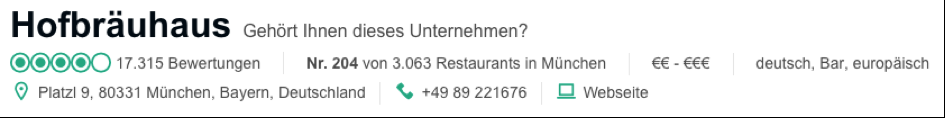
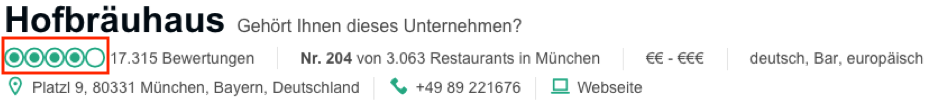
Hinzufügen Teil Extraktion Bewertungsdaten und allgemeine Anpassungen

diff --git a/Studienarbeit/Webscraper_TripAdvisor_Studienarbeit.tex b/Studienarbeit/Webscraper_TripAdvisor_Studienarbeit.tex
@@ -181,34 +181,21 @@
 			\\
 			Bei unstrukturierten Daten wird keinem eindeutigen Schema gefolgt, nur einer reinen Bitfolge. Das bedeutet jedoch nicht, dass die Daten gar keine Struktur aufweisen. Diese ist jedoch nicht direkt bzw. eindeutig für den Nutzer erkennbar. Neben Multimedia Daten (Bilder, Musik) finden sich unstrukturierten Daten auch meist in Emails, auf Internetseiten oder in Text-Dokumenten \cite{bib-daten}.
 			\\
-			\\
-			Web Crawling bzw. Web Scraping fokussiert sich daher auf die Transformation von unstrukturierten Daten im Web zu Daten mit strukturgebenden Metadaten. Die gewünschten Informationen werden dabei als unstrukturierte Rohdaten extrahiert und in einer leicht lesbaren und skalierbaren, d.h. strukturierten Form in Listen, Tabellen oder Datenbanken gespeichert (vgl. Abbildung \ref{pic-webcrawler}). Vorteilhaft ist, dass Web Scraping selektiv arbeitet, d.h. lediglich die Daten transformiert für die man sich im Vorfeld entschieden hat. Dies erleichtert eine Analyse der Daten erheblich. Aktuelle Softwares und Tools sind in der Lage, komplette Websites in strukturierte Daten umzuwandeln um diese weiter zu verarbeiten.
-				
-			\begin{figure}[H]
-				\centering
-				\begin{minipage}[b]{0.9\textwidth}
-					\includegraphics[width=\textwidth]{Bilder/Webcrawler.png}
-				\end{minipage}
-				\centering
-				\caption[Funktionsweise eines Webcrawlers]{Funktionsweise eines Webcrawlers}
-				\label{pic-webcrawler}
-			\end{figure}
-			
-			bzw: Mithilfe von Web Scraping werden unstrukturierte Daten im Web zu Daten mit strukturgebenden Metadaten transformiert. Was genau Web Scraping bedeutet und wie es funktioniert, wird im nächsten Abschnitt näher erläutert.
+			Mithilfe von Web Scraping werden unstrukturierte Daten im Web zu Daten mit strukturgebenden Metadaten transformiert. Was genau Web Scraping bedeutet und wie es funktioniert, wird im nächsten Abschnitt näher erläutert.
 			
 			
 		\section{Web Scraping}
 		
-			Mit Web Scraping – auch “Web Harvesting”, “Web data mining” oder “Web data extraction“ genannt – wird das automatisierte herunterladen, analysieren und organisieren von Daten mehrerer Webseiten bezeichnet. Der Vorteil ist, dass aus einer Menge von unstrukturierten Informationen nur die benötigten Daten einer Webseite gezielt extrahiert und strukturiert abgespeichert werden. 
+			Mit Web Scraping – auch “Web Harvesting”, “Web data mining” oder “Web data extraction“ genannt – wird das automatisierte herunterladen, analysieren und organisieren von Daten mehrerer Webseiten bezeichnet. Der Vorteil ist, dass aus einer Menge von unstrukturierten Informationen nur die benötigten Daten einer Webseite gezielt extrahiert und strukturiert abgespeichert werden. \cite{bib-webscraping}
 			\\			
-			Der Begriff „Scraping“ (engl.: „abkratzen, schaben“) gibt es circa so lange wie das Internet selbst. Bevor Web Scraping populär wurde war das Verfahren "Screen Scraping" bereits allgemein bekannt. Damit wird das Auslesen von Daten aus Darstellungen am Computer bezeichnet. Genau wie heute war man damals schon daran interessiert, große Textmengen zu extrahieren, um daraus nur die benötigten Daten für den späteren Gebrauch zu speichern. Da dieses Verfahren heutzutage meist nur noch für Webseiten benötigt wird, wurde der Begriff „Web Scraping“ etabliert. 
-			%TODO Was ist das für eine Quellenangabe?
-			(vgl.: Practical Web Scraping, Seite 3)
+			Der Begriff „Scraping“ (engl.: „abkratzen, schaben“) gibt es circa so lange wie das Internet selbst. Bevor Web Scraping populär wurde war das Verfahren Screen Scraping bereits allgemein bekannt. Damit wird das Auslesen von Daten aus Darstellungen am Computer bezeichnet. Genau wie heute war man damals schon daran interessiert, große Textmengen zu extrahieren, um daraus nur die benötigten Daten für den späteren Gebrauch zu speichern. Da dieses Verfahren heutzutage meist nur noch für Webseiten benötigt wird, wurde der Begriff „Web Scraping“ etabliert. \cite{bib-webscraping}
+			\\
+			Oft wird auch als Synonym der Begriff „Web Crawling“ verwendet. Beide Verfahren untersuchen Daten aus dem Internet, jedoch ist Web Crawling ein Prozess, der eine große Anzahl von Webseiten nach bestimmten Informationen durchsucht. Ein Beispiel dafür sind Suchmaschinen, wie beispielsweise Google, die mithilfe von Crawlern präzise Suchergebnisse anzeigen können. Im Gegenzug dazu ist Web Scraper ein Prozess, der nur die Daten einer ausgewählten Webseite in eine Datenbank transformiert. \cite{bib-webcrawling}
 			
 			
 			\subsection{Funktionsweise}
 			
-				Mithilfe von HTTP-Anfragen an eine ausgewählte URL wird der Inhalt einer Webseite – meist in Form von HTML – heruntergeladen. Dieser HTML-Code kann von diversen Frameworks geparst werden, um die benötigten Daten zu erhalten. Die gängigste Technik, um diese Daten zu analysieren, ist mithilfe von HTML-Parsern. Die meisten Webseiten unterliegen einer Datenbank zugrunde, aus der sie die Inhalte lesen und verschiedene Seiten mit ähnlichen Vorlagen erstellen. Somit sind die Seiten meist gleich aufgebaut und unterscheiden sich nur von dem Inhalt her. 
+				Mithilfe von HTTP-Anfragen an eine ausgewählte URL wird der Inhalt einer Webseite – meist in Form von HTML – heruntergeladen. Dieser HTML-Code kann von diversen Frameworks geparst werden, um die benötigten Daten zu erhalten. Die gängigste Technik, um diese Daten zu analysieren, ist mithilfe von HTML-Parsern. Die meisten Webseiten unterliegen einer Datenbank zugrunde, aus der sie die Inhalte lesen und daraus die verschiedene Webseiten mit ähnlichen Vorlagen erstellen. Somit sind die Seiten meist gleich aufgebaut und unterscheiden sich nur von dem Inhalt her. HTML Parser konvertieren HTML in eine baumartige Struktur, die mit Hilfe von semi-strukturierten Abfragesprachen wie XPaths oder CSS Selectors programmatisch navigiert werden kann. \cite{bib-anzSterne}
 				\\
 				Die benötigten Informationen werden mithilfe der Developer Tool-Ansicht einer Webseite eindeutig identifiziert, beispielsweise über einen eindeutigen Klassennamen oder einer ID. Dabei sind die Daten auf manchen Webseiten teilweise nicht in dem Format wie sie benötigt werden und müssen daher zuerst bereinigt werden. Beispielsweise werden die durchschnittliche Anzahl an Sternen der Bewertungen eines Restaurants auf TripAdvisor (vgl. Abbildung \ref{pic-anzSterne}) als Bild dargestellt und nicht als Zeichenkette. \cite{bib-anzSterne}
 				
@@ -222,12 +209,12 @@
 					\label{pic-anzSterne}
 				\end{figure}
 				
-				Sobald alle Daten extrahiert und angepasst wurden, werden diese noch abgespeichert. Diese Sicherung kann in Form von XML, JSON, CSV oder in einer Datenbank erfolgen. Somit ist eine weitere Verarbeitung der Daten möglich. \cite{bib-anzSterne}
+				Sobald alle Daten extrahiert und angepasst wurden, werden diese noch abgespeichert. Diese Sicherung kann in Form von XML, JSON, CSV oder in einer Datenbank erfolgen. (vgl. Abbildung \ref{pic-webscraper2}) Somit ist eine weitere Verarbeitung der Daten möglich. \cite{bib-anzSterne}
 				
 				%TODO Wieso kommt das Bild hier nochmal vor? vgl Kap (Datenstrukturen)
 				\begin{figure}[H]
 					\centering
-					\begin{minipage}[b]{0.9\textwidth}
+					\begin{minipage}[b]{0.6\textwidth}
 						\includegraphics[width=\textwidth]{Bilder/Webcrawler.png}
 					\end{minipage}
 					\centering
@@ -238,7 +225,7 @@
 			
 			\subsection{Verwendung}
 			
-				Aktuelle Softwares und Tools sind in der Lage, komplette Websites in strukturierte Daten umzuwandeln, um diese weiter zu verarbeiten. Dies kann in vielerlei Hinsicht nützlich sein. Denn alle Vorgänge, die manuell im Internet erfolgen, können somit automatisiert werden. Beispielsweise können Tickets für ein Konzert gekauft werden, sobald diese verfügbar sind, oder einen Onlineshop regelmäßig überprüfen, ob der Preis für einen bestimmten Artikel gesunken ist. \cite{bib-anzSterne}
+				Aktuelle Softwares und Tools sind in der Lage, komplette Webseiten in strukturierte Daten umzuwandeln, um diese weiter zu verarbeiten. Dies kann in vielerlei Hinsicht nützlich sein. Denn alle Vorgänge, die manuell im Internet erfolgen, können somit automatisiert werden. Beispielsweise können Tickets für ein Konzert gekauft werden, sobald diese verfügbar sind, oder einen Onlineshop regelmäßig überprüfen, ob der Preis für einen bestimmten Artikel gesunken ist. \cite{bib-anzSterne}
 				\\				
 				In der folgenden Studienarbeit wurden die Informationen der Seite „TripAdvisor.de“ analysiert. Dieses Unternehmen wird im folgenden Kapitel näher betrachtet.
 			
@@ -247,11 +234,11 @@
 	
 			TripAdvisor ist eines der bekanntesten Bewertungsportale in der Touristik- und Hotelbranche.
 			Auf dieser Webseite können User über 7,5 Millionen Restaurants, Unterkünfte, Airlines und Erlebnissen bewerten und vergleichen. Diese Bewertungen können sie zusätzlich mit Bildern veranschaulichen. Somit wird den Reisenden die Planung ihrer Reise vereinfacht, da sie mithilfe von echten Bewertungen einen authentischen Eindruck erhalten. 
-			Zusätzlich bietet die Webseite im Bereich „Unterkünfte“ die Möglichkeit an, Zimmerpreise zu prüfen und diese direkt zu dem Betrag zu buchen. Mit insgesamt über 630 Millionen Bewertungen und Erfahrungsberichten der Reisenden und einem jährlichen Umsatz von mehr als 1,5 Milliarden Euro im Jahr 2017 \cite{bib-statista} ist TripAdvisor die weltweit größte Touristikwebseite. Sie ist auf 49 Märkten vertreten. \cite{bib-taMedia}
+			Zusätzlich bietet die Webseite im Bereich „Unterkünfte“ die Möglichkeit an, Zimmerpreise zu prüfen und diese direkt zu buchen. Mit insgesamt über 630 Millionen Bewertungen und Erfahrungsberichten der Reisenden und einem jährlichen Umsatz von mehr als 1,5 Milliarden Euro im Jahr 2017 \cite{bib-statista} ist TripAdvisor die weltweit größte Touristikwebseite. Sie ist auf 49 Märkten vertreten. \cite{bib-taMedia}
 			
 			\begin{figure}[H]
 				\centering
-				\begin{minipage}[b]{0.9\textwidth}
+				\begin{minipage}[b]{0.4\textwidth}
 					\includegraphics[width=\textwidth]{Bilder/LogoTripadvisor.png}
 				\end{minipage}
 				\centering
@@ -264,7 +251,9 @@
 	
 	\chapter{Anforderungen}	
 	
-		\section{Tabelle: Daten TripAdvisor (Welche Daten holen wir uns? Hotel und Restaurants?) details}
+		\section{Tabelle: Daten TripAdvisor}
+		
+		(Welche Daten holen wir uns? Hotel und Restaurants?) details
 	
 		\section{Nicht funktionale Anforderungen: Benutzerfreundlichkeit etc.}
 	
@@ -283,31 +272,22 @@
 	
 		\section{Konfiguration}
 		
-			Das folgende Kapitel beschreibt die notwendige Konfiguration des Web Scrapers. Zunächst wurde als Entwicklungsumgebung die aktuellste Version von Eclipse (Version 4.7.*) sowie als Programmiersprache die neueste Version von Python und PIP zur Verwaltung von Paketen installiert. Es wurde bewusst nicht die Version 2.7 verwendet, da ab 3.0 Pakete, wie JSON und urllib, schon vorinstalliert sind. Es wurde Python gewählt, da dies die bekannteste Sprache für Web Scraper ist und Frameworks, wie Scrapy, Beautifulsoup, etc. in Python geschrieben sind. 
-			
-			Um Python für Eclipse zu nutzen, wurde das Plugin PyDev in Eclipse installiert. Daraufhin muss der Python-Interpreter konfiguriert werden. Diese Einstellung wird unter Window > Preferences vorgenommen. \cite{bib-pipEnv}
-			Für den Web Scraper wurden zunächst zwei wichtige Pakete mithilfe von PIP installiert: 
-			
-			\begin{itemize}
-				\item	Requests 
-				
-				\item	Beautifulsoup
-			\end{itemize}
-		
+			Zunächst wurde als Entwicklungsumgebung die aktuellste Version von Eclipse (Version 4.7.*) sowie als Programmiersprache die neueste Version von Python und PIP zur Verwaltung von Paketen installiert. Es wurde bewusst nicht die Version 2.7 verwendet, da ab der Version 3.0 Pakete, wie JSON und urllib, schon vorinstalliert sind. Es wurde Python gewählt, da dies die bekannteste Sprache für Web Scraper ist und Frameworks, wie Scrapy, Beautifulsoup, etc. in Python geschrieben sind. 
+			\newline
+			Um Python für Eclipse zu nutzen, wurde das Plugin „PyDev“ in Eclipse installiert. Daraufhin muss der Python-Interpreter konfiguriert werden. Diese Einstellung wird unter Window > Preferences vorgenommen. \cite{bib-pipEnv}
+			\newline
+			Für den Web Scraper wurden zunächst zwei wichtige Pakete mithilfe von PIP installiert: Requests und Beautifulsoup.
 			Um die URL zu öffnen und den HTML Code der Webseite herunterzuladen, wird das Paket „Requests“ benötigt. Um diesen Code zu analysieren und die Daten zu extrahieren, wurde das Framework „Beautifulsoup“ installiert. \cite{bib-scrapeHero} 
 			Warum sich in dieser Studienarbeit für dieses Framework entschieden wurde, wird im nächsten Abschnitt näher erläutert. 
 
 	
 		\section{BeautifulSoup}
 		
-			Für die Programmierung des Webcrawlers um Daten von auf TripAdvisor gelisteten Hotels und Restaurants zu scrapen wurde die Python Library ‘BeautifulSoup‘ (\textit{bs4}) verwendet.
-			\\
+			Für die Programmierung des Web Scrapers, um Daten von auf TripAdvisor gelisteten Hotels und Restaurants zu scrapen wurde die Python Library ‘BeautifulSoup‘ (\textit{bs4}) verwendet.
 			\newline
 			Hierbei handelt es sich um eine Library für XML und HTML parsing, die zunächst als zusätzliches Paket installiert werden muss. Beim Parsen werden XML oder HTML Dateien analysiert und auf ihre einzelnen Bestandteile geprüft. So können jegliche Informationen aus diesen Dateien gesucht bzw. extrahiert werden, vorausgesetzt es sind entsprechende Tags bzw. Attributnamen vorhanden. Ohne diese kann nicht gesucht werden \cite{bib-webpython}. Diese Einfachheit und gleichzeitig große Effizienz sind der westenliche Vorteil, warum das Projekt-Team sich für die Library BeautifulSoup und deren Methoden entschieden hat.
-			\\
 			\newline
 			Um das wahrscheinlich am meisten verwendeten Objekt der BeautifulSoup Library – das BeautifulSoup Object – zu initialisieren, muss diesem ein XML bzw. HTML Dokument oder, wie in unserem Fall, der zu parsenden HTML-Code übergeben werden. BeautifulSoup kann eine URL also nicht selbstständig aufrufen, sondern erst mit dem gespeicherten Quelltext der HTML-Seite arbeiten \cite{bib-bs4}. In unserem Fall wird die TripAdvisor URL des gewünschten Hotels bzw. Restaurants daher zunächst mit einer Methode der Python Library \textit{‘request'} aufgerufen. Diese sendet einen HTTP/1.1 request und pingt die Website an, dass Informationen extrahiert werden möchten. Sobald der Webserver eine \textit{response} sendet wird der Inhalt der URL, d.h. der HTML-Code in einer einfachen String Variable gespeichert. Erst jetzt kann ein neues BeautifulSoup Object initialisiert werden (vgl. Programmcode 4.1).
-			\\ 
 			\begin{lstlisting} [caption={Initialisierung BeautifulSoup Object}\label{initbs4}, captionpos=b, style=Arduino]
 			def get_single_data(self,url):
 			source_code = requests.get(url)
@@ -328,7 +308,6 @@
 			\end{figure}
 			
 			Natürlich enthält dieser normalerweise eine weitaus größere Anzahl an Vererbungen, d.h. ineinander verschachtelten Tags, und ist daher komplizierter zu lesen. Jedoch wird anhand dieses Beispiels bereits deutlich, wie die im folgenden beschriebenen Methoden der BeautifulSoup Library damit arbeiten können.
-			\\
 			\newline
 			Sobald das BeautifulSoup Object vorliegt, können die vorhandenen Methoden der bs4 Library genutzt werden. In folgender Tabelle sind die beiden bekanntesten und auch im Programm-Code am meisten genutzten Methoden aufgelistet \cite{bib-bs4}.
 		
@@ -359,7 +338,6 @@
 				\\ 
 				Die Unkompliziertheit von BeautifulSoup wird auch hier wieder deutlich. Mit \textit{find()} und \textit{find\_all()} kann nach jedem gewünschten Tag im Source Code gesucht und dessen Inhalt ausgegeben werden. So kann nach Strings, Blockelementen (z.B. <div>-Tag, Tabellen, Listen oder Überschriften), Inline-Elementen (z.B. <span>-Tag, Links oder Bilder) und weiteren Tags sowie deren Klassennamen gesucht werden \cite{bib-bs4}.
 				Um diese zu bestimmen, ist es notwendig den übergebenen HTML-Code der URL genauer zu betrachten. Dies ist z.B. im Browser Chrome mit Rechtsklick „Quellcode anzeigen“ möglich. Um direkt auf ein gewünschtes Element im Quellcode zu springen, kann Rechtsklick „Element untersuchen“ genutzt werden. Diese Developer Tool-Ansicht ist deutlich strukturierter als den gesamten Text anzeigen zu lassen und erleichtert die Suche nach den gewünschten Tags um ein Vielfaches.
-				\\
 				\newline
 				Der Programmcode 4.2 zeigt einige der Elemente und Klassen die gewählt wurden, um die gewünschten Informationen zu extrahieren.
 				Um den Namen des Restaurants oder Hotels zu finden wird beispielsweise nach dem Tag \textit{<h1>} und dem class-Namen \textit{‘heading-title‘} gesucht. Dieser Tag steht üblicherweise für Überschriften und kommt meist nur einmal vor. Daher ist die Suche hier relativ simpel. Hingegen wird für die Durchschnittliche Bewertung des Restaurants oder Hotels nach einem \textit{<div>}-Tag mit class-Namen \textit{‘rs rating‘} gesucht. Da es sich dabei jedoch nur um die parent-class des gesuchten Tags handelt wird hier noch mit den Anhängen .div.span erweitert und tiefer in das BeautifulSoup Object „gezoomt“ um die children dieser Klasse zu erhalten. Mit der ID \textit{‘content‘} werden letztendlich die durchschnittliche Bewertung gefunden und in der Variable overallPoints gespeichert.
@@ -381,7 +359,6 @@
 			\subsection{Bewertungslink aller Bewertungen auslesen}
 			
 				Neben allgemeinen Daten zu Restaurant bzw. Hotel sollen außerdem noch Informationen zu allen Bewertungen inkl. angehängter Bilder und Daten zu deren Verfassern extrahiert und gespeichert werden. Dafür wird zunächst die URL jeder Bewertung generiert werden, um die Informationen von hier auszulesen. Da sich die Bewertungen meist nicht nur über eine, sondern eine Vielzahl an Seiten erstrecken wurde dies mit einer Verschachtelten for-Schleife gelöst.
-				\\
 				\newline
 				Zunächst wurde eine for Schleife definiert, die alle verfügbaren Seiten eines Hotels oder Restaurants auf TripAdvisor durchläuft (vgl. Programmcode 4.3). Dafür wird die maximale Anzahl an Seiten mit \textit{find\_all()} gesucht und eine neue URL für jede der Seiten generiert. Diese unterschieden sich lediglich anhand eines Indexes (in 10er Schritten). Daher wird dieser für jeden Schleifendurchlauf, d.h. für jede Seite um 10 erhöht und mit der vorher gesplitteten URL neu zusammengesetzt. 
 				\\
@@ -396,7 +373,6 @@
 				\end{lstlisting}
 				
 				Die neu generierte URL wird jedes Mal an die Methode \textit{loop\_through\_review\_pages()} übergeben.
-				\\
 				\\
 				Mit dem ersten Aufruf von \textit{find\_all()} in dieser Mehtode wird zunächst nach dem \textit{<div>}-Tag mit class-Namen \textit{‘review container‘} gesucht (vgl. Programmcode 4.4). 
 				\\
@@ -434,7 +410,6 @@
 				Mit dem erneuten Aufruf der Methode \textit{find\_all()} wird in einem container nach einem Link (\textit{<a>}-Tag) gesucht und gleichzeitig href auf \textit{‘True}‘ gesetzt. So stellt man sicher, dass nur Links mit href-Attribut ausgegeben werden. Bei diesem Link handelt es sich um den Teil der URL, der an die reguläre TripAdvisor Website angehängt werden muss, um die Bewertungsseite aufrufen zu können.
 				\\
 				Da jedoch nicht nur Informationen zur ersten gefunden Bewertung pro Seite, sondern zu allen Bewertungen extrahiert werden sollen, ist die Suchfunktion in eine weitere for-Schleife eingebunden. Diese loopt durch die vorher gespeicherte Liste \textit{review\_container}. So wird nicht nur der erste review container nach der Bewertungsseiten URL durchsucht sondern alle. Die Methode \textit{loop\_through\_review\_pages()} in Kombination mit der for-Schleife über alle Bewertungsseiten ermöglicht nun die Bewertungslinks jeder einzelnen Bewertung auszulesen.
-				\\
 				\newline
 				Diese neu ausgelesene URL wird bei jedem Durchlauf an die Methode \textit{get\_single\_review\_data()} übergeben. Mit dieser können alle in Kapitel 3 definierten Daten zu den Bewertungen extrahiert werden.
 	
@@ -442,7 +417,9 @@
 	
 			\subsection{Extraktion Bewertungensdaten}
 			
-				Auch hier muss zunächst wieder ein BeautifulSoup Object initalisiert werden, diesmal aber mit dem gespeicherten HTML-Code einer einzelnen Bewertungsseite (vgl. Programmcode 4.5).
+				Die Daten der einzelnen Bewertungen werden mithilfe der oben genannten Methode 
+				\textit{get\_single\_review\_data()} extrahiert. Dazu gehören wie in Kapitel 3 beschrieben: der Verfasser, seine Anzahl an Bewertungen und Likes, der Titel und der Text sowie die URL der Bilder einer Bewertung, falls dieser welche hochgeladen hat. 
+				Zunächst wird wieder ein BeautifulSoup Object initalisiert, jedoch diesmal mit dem gespeicherten HTML-Code einer einzelnen Bewertungsseite (vgl. Programmcode 4.5).
 				\\
 				\begin{lstlisting} [caption={Initialisierung BeautifulSoup Object}\label{forpages}, captionpos=b, style=Arduino]
 				def get_single_review_data(self,review_url):     
@@ -450,8 +427,43 @@
 				plain_text2 = source_code2.text
 				soup = BeautifulSoup(plain_text2, "html.parser")
 				\end{lstlisting}
-	
-	
+				
+				Die allgemeine Schwierigkeit an der Extraktion der Bewertungsdaten lag daran, dass auf der Webseite jeder einzelnen Bewertung zusätzlich noch die folgenden vier Bewertungen angezeigt werden. Dadurch, dass jede Bewertung den gleichen Aufbau an Klassen besitzt, war es nicht möglich nur nach dem Klassennamen zu suchen, da sonst beispielsweise die Überschriften aller Bewertungen ausgegeben worden wären. 
+				Da der Name des Verfassers der Bewertung an erster Stelle im Quellcode angezeigt wird, kann dieses Element lediglich mithilfe der Methode 	\textit{find()} und dem Klassennamen ausgegeben werden. 
+				Die Elemente „Anzahl an Bewertungen“ sowie „Anzahl an Likes“ besitzen jedoch denselben Klassennamen. Daher wurde in diesem Fall die Methode \textit{findAll()} benutzt, allerdings mit der Kombination, dass nur ein bestimmtes Element ausgegeben werden soll (vgl. Programmcode 4.6)
+				\newpage
+				\begin{lstlisting} [caption={Anzahl an Bewertungen und Likes des Verfassers}\label{forpages}, captionpos=b, style=Arduino]
+				for self.numberOfReviews in soup.findAll('span', {'class': 'badgetext'})[0]:
+				print("Anzahl Reviews: " + self.numberOfReviews.string)
+				
+				for self.numberOfLikes in soup.findAll('span', {'class': 'badgetext'})[1]:
+				print("Anzahl Likes: " + self.numberOfLikes.string)
+				\end{lstlisting}
+				
+				Somit wird für die Anzahl an Bewertungen der Text des ersten gefundenen Klassennamens ausgegeben, für die Anzahl an Likes der Text des zweiten Klassennamens. 
+				Um den Titel sowie den Text der Bewertung zu extrahieren, wurde das JSON des heruntergeladenen HTML-Codes wieder in ein JSON-Format geparst (vgl. Programmcode 4.7). Denn die Problematik hierbei war, dass wenn die Bewertung in einer anderen Sprache verfasst worden ist, die Überschrift und der Text der Bewertung automatisch ins Deutsche übersetzt worden sind. Dadurch erkennt das System die übersetzte Überschrift sowie den Text anhand des Klassennamens nicht.
+				\\
+				\begin{lstlisting} [caption={Transformation in ein JSON-Format}\label{forpages}, captionpos=b, style=Arduino]
+				self.item_name = soup.find('script', {'type': 'application/ld+json'})
+				json_string = str(self.item_name.string)
+				obj = json.loads(json_string)
+				\end{lstlisting}
+				
+				Mithilfe dieses JSONs wurde zusätzlich auch die Anzahl an vergebenen Punkten herausgelesen.  
+				Zusätzlich war die Anforderung, die URL der Bilder einer Bewertung abzuspeichern. Hierbei war die Schwierigkeit, dass auch Bewertungen ohne Bilder existieren. Des Weiteren können auch noch die anderen angezeigten Bewertungen Bilder enthalten. Dadurch war es nicht möglich nur nach der Klasse inlinePhotosWrapper zu suchen. Somit hätte das System auch die URLs der anderen Bewertungsbilder ausgegeben.  
+				Daher sucht der Web Scraper zunächst, nach einer ID, die nur die gewünschte Bewertung besitzt. Daraufhin überprüft das System, ob es innerhalb dieser ID eine Klasse \textit{inlinePhotosWrapper} existiert, also ob der Verfasser der Bewertung Bilder hochgeladen hat. Ist dies der Fall, werden die URLs der Bilder in der Datenbank abgespeichert. Falls nicht, wird eine textuelle Nachricht ausgegeben, dass für diese Bewertung keine Bilder hochgeladen wurden.
+				\\
+				\begin{lstlisting} [caption={Extraktion der URL der Bewertungsbilder}\label{forpages}, captionpos=b, style=Arduino]
+				for link in soup.findAll('div', {'id': 'taplc_location_reviews_list_sur_callout_0'}):
+				if link.find('div', {'class': 'inlinePhotosWrapper'}):
+				for pic in link.findAll('img', {'class': 'centeredImg'}):
+				self.src = pic.get('src')
+				print("Quelle Bild " + self.src)
+				else:
+				print("No pictures have been uploaded for this review!")
+				\end{lstlisting}
+				
+				Alle Ergebnisse werden wiederum in neu definierten Variablen als einfache Strings bzw. bei mehreren Ergebnissen in Listen gespeichert. 
 			
 		\section{Datenhaltung}
 		%Einfach suche der Daten
@@ -711,9 +723,13 @@
 		
 		\bibitem{bib-tinydb} TinyDB\\ Project Description TinyDB, \newline \url{https://pypi.org/project/tinydb/}, aufgerufen am \today
 		
-		\bibitem{bib-sqlite} SQLite\\ About SQLite, \newline \url{https://www.sqlite.org/about.html9}, aufgerufen am \today
+		\bibitem{bib-sqlite} SQLite\\ About SQLite, \newline \url{https://www.sqlite.org/about.html}, aufgerufen am \today
 		
 		\bibitem{bib-daten} Definition von Datenarten zur konsistenten Kommunikation im Unternehmen\\ Piro A., Gebauer M. Hrsg: \glqq Vieweg und Teubner in Daten- und Informationsqualität.\grqq, S.143 - 156
+		
+		\bibitem{bib-webscraping} Practical Web Scraping for Data Science: best practices and examples with Python\\ vanden Broucke S., Baesens B. Hrsg: \O Apress Media LLC: Welmoed Spahr.\grqq
+		
+		\bibitem{bib-webcrawling} ProWebScraping\\ Web Scraping Vs Web Crawling, \newline \url{http://prowebscraping.com/web-scraping-vs-web-crawling/}, aufgerufen am \today
 		
 		\bibitem{bib-webpython} Web scraping with Python: collecting data from the modern web\\ Mitchel, R. Hrsg: \O'Reilly Media, Inc.
 		
@@ -744,7 +760,7 @@
 	\setstretch{1.5}
 	\chapter*{Eidesstattliche Erklärung}
 		%\vspace{1.5\textheight}
-		Hiermit erklären wir, Johannes Knippel, Anja Wolf, Johanna Sickendiek und Skanny, dass wir die vorliegende Arbeit mit dem Titel \textit{Extraktion unstrukturierter Daten und Integration in eine Datenbank am Beispiel TripAdvisor} selbstständig verfasst, noch nicht anderweitig für Prüfungszwecke vorgelegt, keine anderen als die angegebenen Quellen oder Hilfsmittel benützt sowie wörtliche und sinngemäße Zitate als solche gekennzeichnet haben.
+		Hiermit erklären wir, Johannes Knippel, Anja Wolf, Johanna Sickendiek und Skanny Morandi, dass wir die vorliegende Arbeit mit dem Titel \textit{Extraktion unstrukturierter Daten und Integration in eine Datenbank am Beispiel TripAdvisor} selbstständig verfasst, noch nicht anderweitig für Prüfungszwecke vorgelegt, keine anderen als die angegebenen Quellen oder Hilfsmittel benützt sowie wörtliche und sinngemäße Zitate als solche gekennzeichnet haben.
 		\vspace{15mm}
 		\\
 		\\

diff --git a/Studienarbeit/Deckblatt/deckblatt.tex b/Studienarbeit/Deckblatt/deckblatt.tex
@@ -31,26 +31,46 @@
 \begin{flushleft}	
 	\begin{tabular}[H]{ll}
 		
-		Ersteller: & \large{Johannes Knippel, Anja Wolf,}\\[0.2cm]
-		 			& \large{Johanna Sickendiek, Skanny}\\[0,2cm]
-		1. Prüfer:		  & \large{Dr. Michael Möhring}\\[0.2cm]
-		2. Prüfer:		  & \large{Barbara Keller}\\[.7cm]
+		Verfasser: 			& \large{Johannes Knippel, Anja Wolf,}\\[0.2cm]
+		 					& \large{Johanna Sickendiek, Skanny Morandi}\\[0,2cm]
+		1. Prüfer:		  	& \large{Dr. Michael Möhring}\\[0.2cm]
+		2. Prüfer:		 	& \large{Barbara Keller}\\[.7cm]
+		\\
 		
 		
 		Betreuer an der Hochschule München: 	& \large{Prof. Dr. Rainer Schmidt}\\[0.5cm]
 		Ausgabedatum:					& \large{19.03.2018}\\[0.5cm]
 		Abgabedatum:					& \large{22.07.2018}\\[3.5cm]
-	
-		
+		\\
+		\\
+		\\		
 		%FeldLinks für OrtDatum1	
 		%\hspace*{\fill}
 	
 		\parbox{7cm}{\hrule\medskip Ort, Datum\\ [0.3cm]}	&	\parbox{7cm}{\hrule\medskip Unterschrift des 1. Prüfers\\ [0.2cm]Dr. Michael Möhring}\\[1.5cm]
+		\\
+		\\
+		\\
 		\parbox{7cm}{\hrule\medskip Ort, Datum\\ [0.31cm]}	&	\parbox{7cm}{\hrule\medskip Unterschrift des 2. Prüfers\\ [0.2cm]Barbara Keller}\\[1.5cm]
+		\\
+		\\
+		\\
 		\parbox{7cm}{\hrule\medskip Ort, Datum\\ [0.33cm]}	&	\parbox{7cm}{\hrule\medskip Unterschrift des Verfassers\\ [0.2cm]Johannes Knippel [19793313]}\\[1.5cm]
+		\\
+		\\
+		\\
 		\parbox{7cm}{\hrule\medskip Ort, Datum\\ [0.33cm]}	&	\parbox{7cm}{\hrule\medskip Unterschrift des Verfassers\\ [0.2cm]Anja Wolf [03361217]}\\[1.5cm]
+		\\
+		\\
+		\\
 		\parbox{7cm}{\hrule\medskip Ort, Datum\\ [0.33cm]}	&	\parbox{7cm}{\hrule\medskip Unterschrift des Verfassers\\ [0.2cm]Johanna Sickendiek [00381113]}\\[1.5cm]
-		\parbox{7cm}{\hrule\medskip Ort, Datum\\ [0.33cm]}	&	\parbox{7cm}{\hrule\medskip Unterschrift des Verfassers\\ [0.2cm]Skanny}\\
+		\\
+		\\
+		\\
+		\parbox{7cm}{\hrule\medskip Ort, Datum\\ [0.33cm]}	&	\parbox{7cm}{\hrule\medskip Unterschrift des Verfassers\\ [0.2cm]Skanny Morandi [21857314]}\\[1.5cm]
+		\\
+		\\
+		\\
 	\end{tabular}
 \end{flushleft}
 
